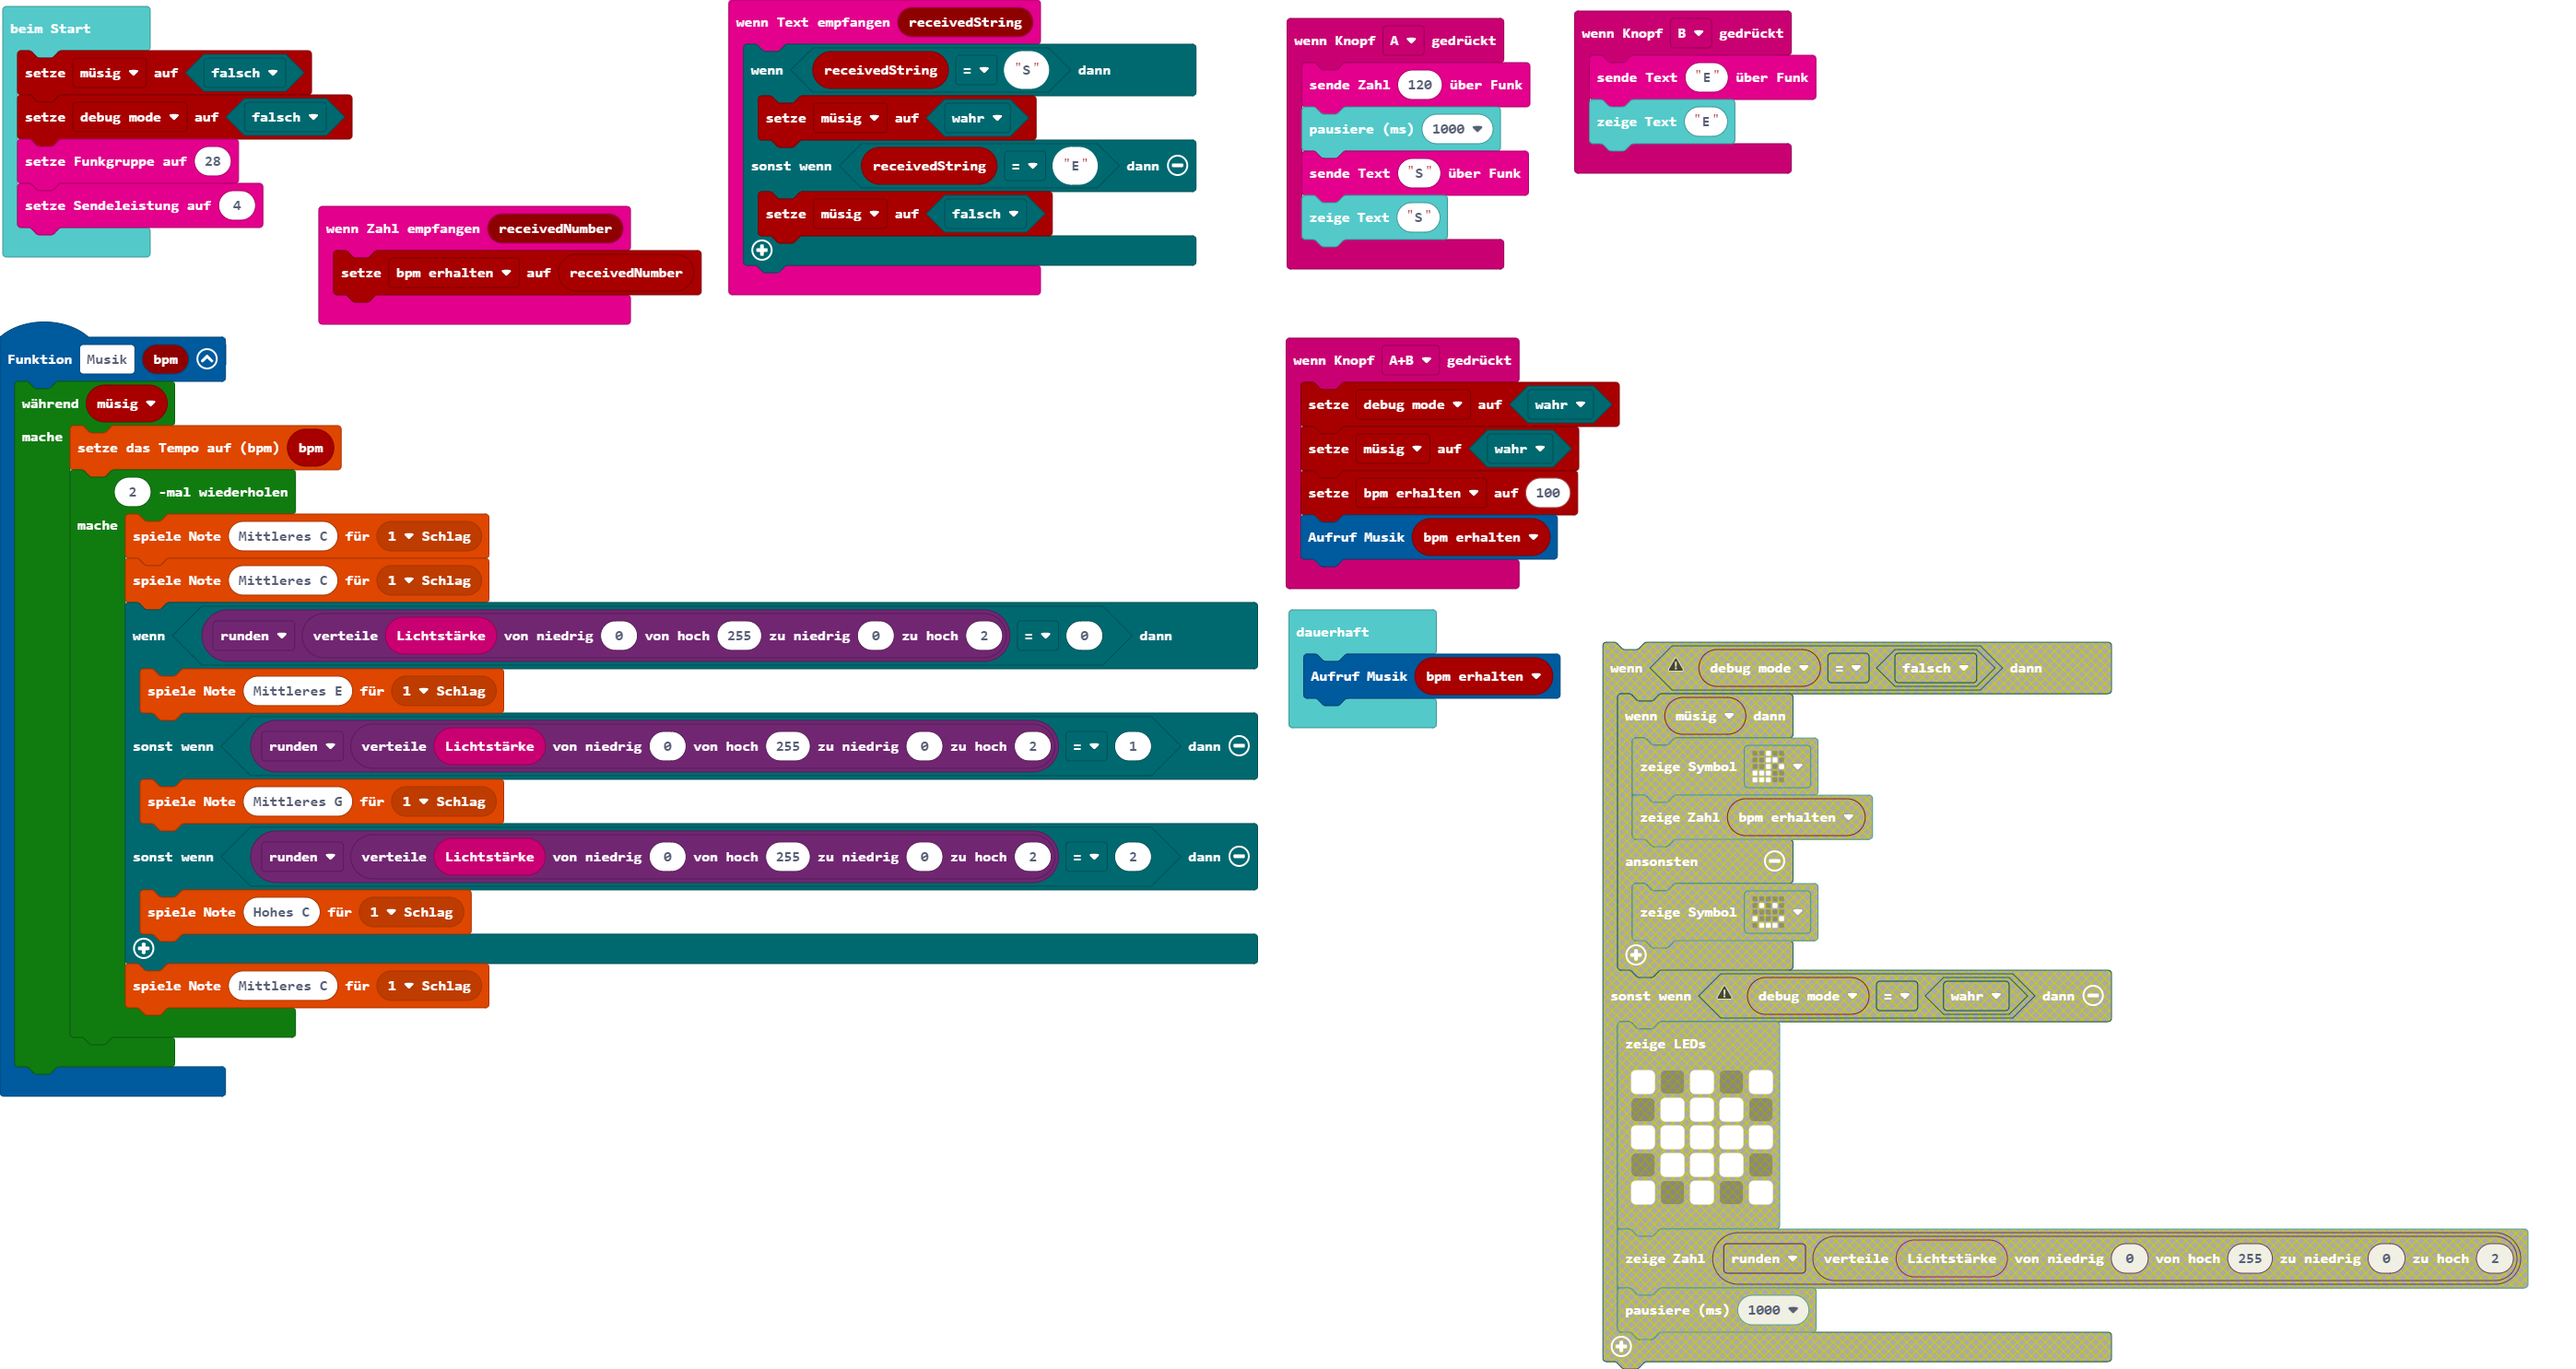
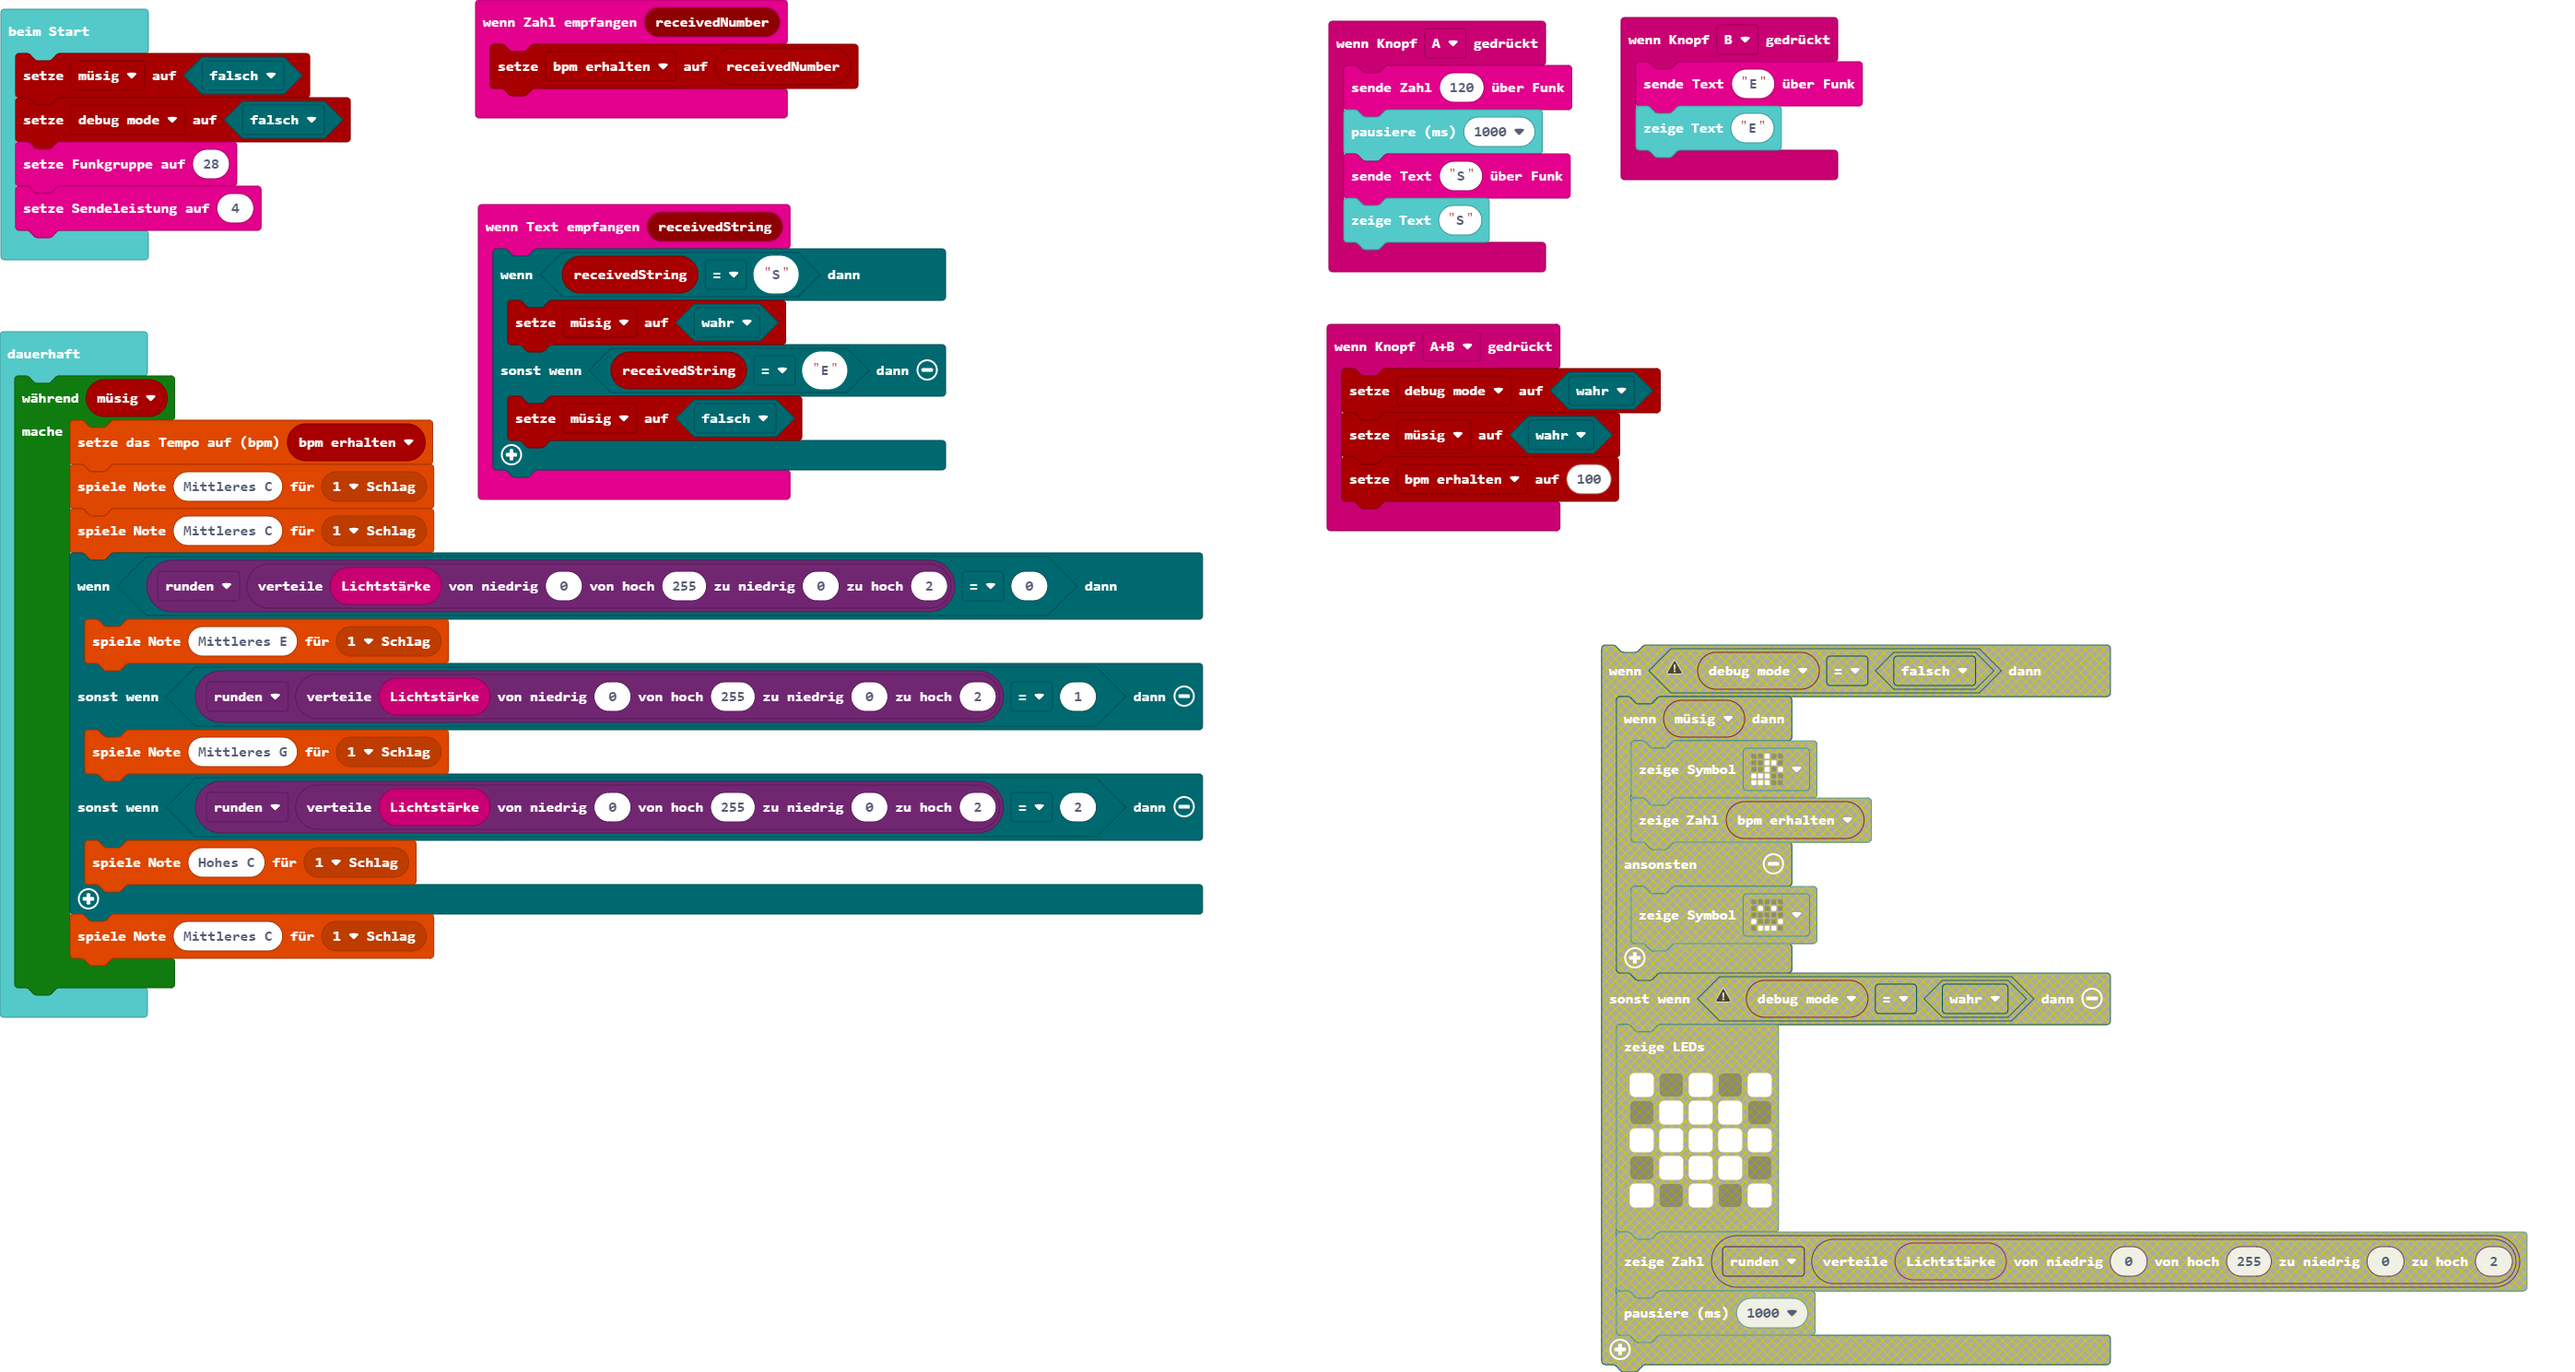
Aktualisiere main.blocks, main.ts, main.py

Changed region(s): [[0.0, 0.0, 0.9653, 1.0]]

diff --git a/main.ts b/main.ts
@@ -1,23 +1,6 @@
 radio.onReceivedNumber(function (receivedNumber) {
     bpm_erhalten = receivedNumber
 })
-function Musik (bpm: number) {
-    while (müsig) {
-        music.setTempo(bpm)
-        for (let index = 0; index < 2; index++) {
-            music.playTone(262, music.beat(BeatFraction.Whole))
-            music.playTone(262, music.beat(BeatFraction.Whole))
-            if (Math.round(Math.map(input.lightLevel(), 0, 255, 0, 2)) == 0) {
-                music.playTone(330, music.beat(BeatFraction.Whole))
-            } else if (Math.round(Math.map(input.lightLevel(), 0, 255, 0, 2)) == 1) {
-                music.playTone(392, music.beat(BeatFraction.Whole))
-            } else if (Math.round(Math.map(input.lightLevel(), 0, 255, 0, 2)) == 2) {
-                music.playTone(523, music.beat(BeatFraction.Whole))
-            }
-            music.playTone(262, music.beat(BeatFraction.Whole))
-        }
-    }
-}
 input.onButtonPressed(Button.A, function () {
     radio.sendNumber(120)
     basic.pause(1000)
@@ -28,7 +11,6 @@ input.onButtonPressed(Button.AB, function () {
     debug_mode = true
     müsig = true
     bpm_erhalten = 100
-    Musik(bpm_erhalten)
 })
 radio.onReceivedString(function (receivedString) {
     if (receivedString == "S") {
@@ -49,5 +31,17 @@ debug_mode = false
 radio.setGroup(28)
 radio.setTransmitPower(4)
 basic.forever(function () {
-    Musik(bpm_erhalten)
+    while (müsig) {
+        music.setTempo(bpm_erhalten)
+        music.playTone(262, music.beat(BeatFraction.Whole))
+        music.playTone(262, music.beat(BeatFraction.Whole))
+        if (Math.round(Math.map(input.lightLevel(), 0, 255, 0, 2)) == 0) {
+            music.playTone(330, music.beat(BeatFraction.Whole))
+        } else if (Math.round(Math.map(input.lightLevel(), 0, 255, 0, 2)) == 1) {
+            music.playTone(392, music.beat(BeatFraction.Whole))
+        } else if (Math.round(Math.map(input.lightLevel(), 0, 255, 0, 2)) == 2) {
+            music.playTone(523, music.beat(BeatFraction.Whole))
+        }
+        music.playTone(262, music.beat(BeatFraction.Whole))
+    }
 })

diff --git a/main.py b/main.py
@@ -3,20 +3,6 @@ def on_received_number(receivedNumber):
     bpm_erhalten = receivedNumber
 radio.on_received_number(on_received_number)
 
-def Musik(bpm: number):
-    while müsig:
-        music.set_tempo(bpm)
-        for index in range(2):
-            music.play_tone(262, music.beat(BeatFraction.WHOLE))
-            music.play_tone(262, music.beat(BeatFraction.WHOLE))
-            if Math.round(Math.map(input.light_level(), 0, 255, 0, 2)) == 0:
-                music.play_tone(330, music.beat(BeatFraction.WHOLE))
-            elif Math.round(Math.map(input.light_level(), 0, 255, 0, 2)) == 1:
-                music.play_tone(392, music.beat(BeatFraction.WHOLE))
-            elif Math.round(Math.map(input.light_level(), 0, 255, 0, 2)) == 2:
-                music.play_tone(523, music.beat(BeatFraction.WHOLE))
-            music.play_tone(262, music.beat(BeatFraction.WHOLE))
-
 def on_button_pressed_a():
     radio.send_number(120)
     basic.pause(1000)
@@ -29,14 +15,12 @@ def on_button_pressed_ab():
     debug_mode = True
     müsig = True
     bpm_erhalten = 100
-    Musik(bpm_erhalten)
 input.on_button_pressed(Button.AB, on_button_pressed_ab)
 
 def on_received_string(receivedString):
     global müsig
     if receivedString == "S":
         müsig = True
-        Musik(bpm_erhalten)
     elif receivedString == "E":
         müsig = False
 radio.on_received_string(on_received_string)
@@ -55,20 +39,15 @@ radio.set_group(28)
 radio.set_transmit_power(4)
 
 def on_forever():
-    if debug_mode == False:
-        if müsig:
-            basic.show_number(bpm_erhalten)
-            basic.show_icon(IconNames.EIGTH_NOTE)
-        else:
-            basic.show_icon(IconNames.HAPPY)
-    elif debug_mode == True:
-        basic.show_leds("""
-            # . # . #
-            . # # # .
-            # # # # #
-            . # # # .
-            # . # . #
-            """)
-        basic.show_number(Math.round(Math.map(input.light_level(), 0, 255, 0, 2)))
-        basic.pause(1000)
+    while müsig:
+        music.set_tempo(bpm_erhalten)
+        music.play_tone(262, music.beat(BeatFraction.WHOLE))
+        music.play_tone(262, music.beat(BeatFraction.WHOLE))
+        if Math.round(Math.map(input.light_level(), 0, 255, 0, 2)) == 0:
+            music.play_tone(330, music.beat(BeatFraction.WHOLE))
+        elif Math.round(Math.map(input.light_level(), 0, 255, 0, 2)) == 1:
+            music.play_tone(392, music.beat(BeatFraction.WHOLE))
+        elif Math.round(Math.map(input.light_level(), 0, 255, 0, 2)) == 2:
+            music.play_tone(523, music.beat(BeatFraction.WHOLE))
+        music.play_tone(262, music.beat(BeatFraction.WHOLE))
 basic.forever(on_forever)
